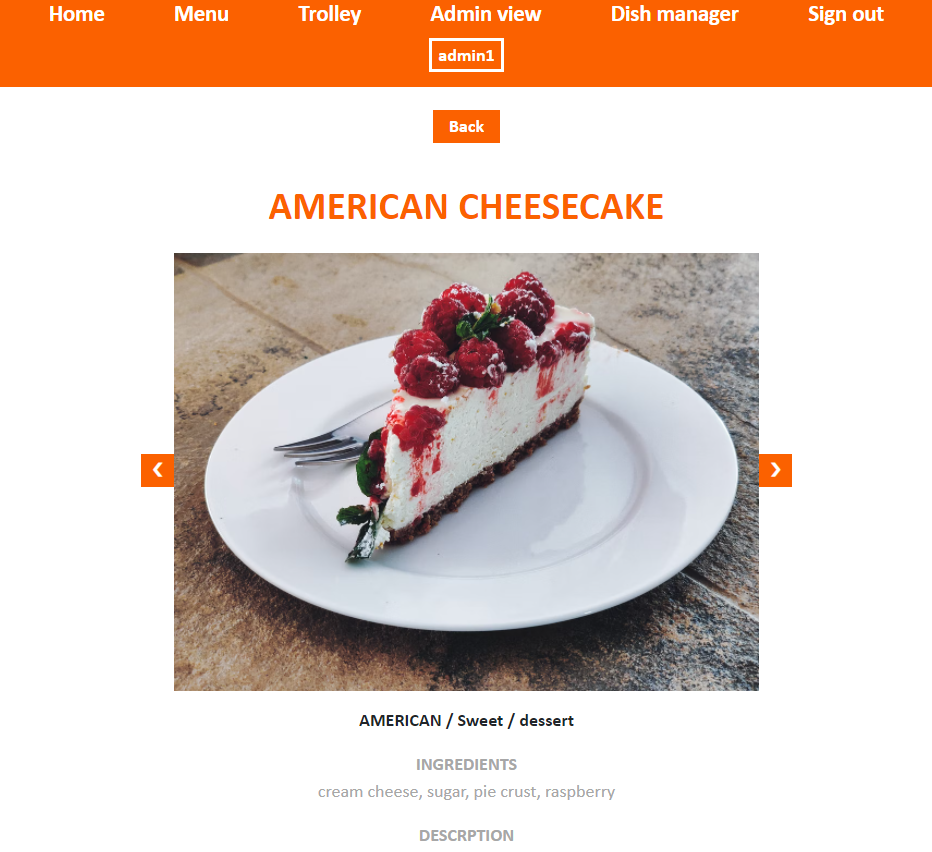
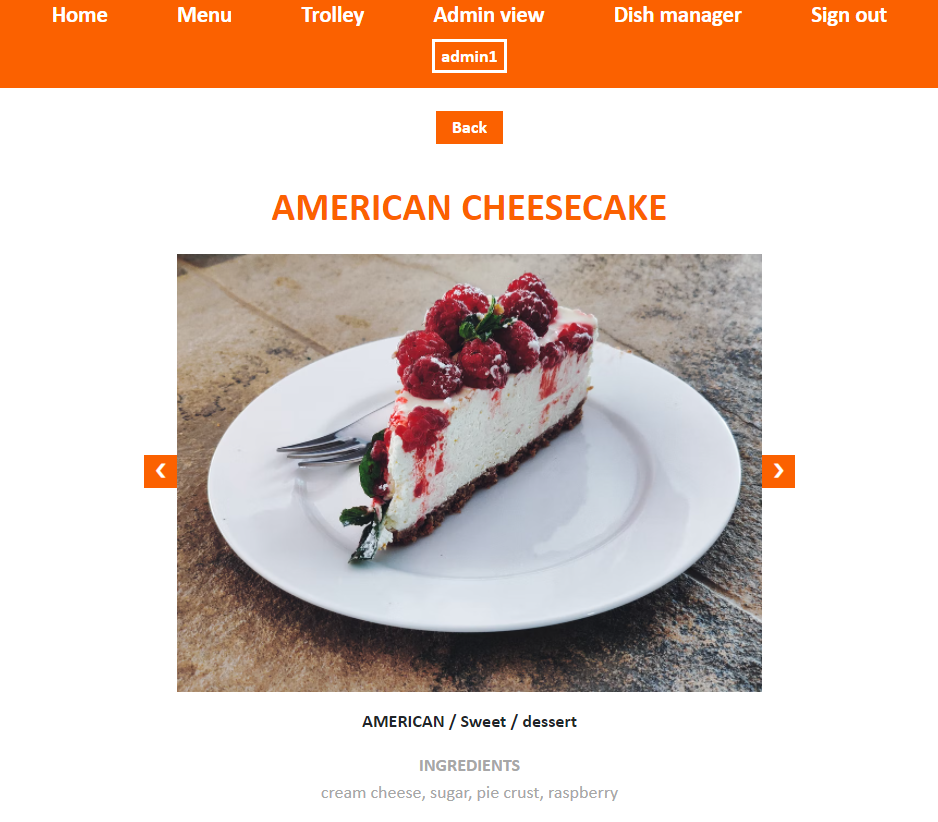
Small changes in README

diff --git a/README.md b/README.md
@@ -15,14 +15,14 @@ Restaurant is a website created to order dishes.
 <br>
 
 <img src="README_files/home_page.png" width=900px>
-<br><br>
+<br>
 
 ### Menu 
 As unlogged user you can browse the menu, use custom filters, change currency in which the prices are displayed and change number of dishes on the website.
 <br>
 
 <img src="README_files/menu.png" width=900px>
-<br><br>
+<br>
 
 ### Sign in/ Sign up
 To access other options you need to sign in. Thanks to AuthGuards you can't access other components without signing in.
@@ -36,31 +36,26 @@ There are 3 different types of accounts:
 You can create new customer account or sign in using 
 this data:
 
-
-| **login**           | **password**        | **user** |
+| **login**           | **password**        | **user**      |
 | :-----------------: | :-----------------: | :-----------: |
 |   admin1@gmail.com  | admin1@gmail.com    | admin         |
 | manager1@gmail.com  | manager1@gmail.com  | manager       |
 | customer1@gmail.com | customer1@gmail.com | customer      |
-<br><br>
 
-<div>
-    <img src="README_files/sign_in.png" width=445px height=210px>
-    <img src="README_files/sign_up.png" width=445px height=210px>
-</div>
-<br><br>
+<br>
+<img src="README_files/sign_in.png" width=900px >
+<img src="README_files/sign_up.png" width=900px>
+<br>
 
 ### Dish details
 As logged user you can click on the dish image to see more details. In dish details view you can see dish description, rate and reviews.
 If you add dish to trolley you can add (only one) dish rate or review. Manager is not allowed to add rates or reviews.
 <br>
 
-<div>
-    <img src="README_files/dish_details1.png" width=295px height=250px>
-    <img src="README_files/dish_details2.png" width=295px height=250px>
-    <img src="README_files/dish_details3.png" width=295px height=250px>
-</div>
-<br><br>
+<img src="README_files/dish_details1.png" width=900px>
+<img src="README_files/dish_details2.png" width=900px>
+<img src="README_files/dish_details3.png" width=900px>
+<br>
 
 ### Trolley
 After signing in you can add dishes to trolley.
@@ -68,23 +63,17 @@ In trolley you can see your whole order or change number of added dishes.
 <br>
 
 <img src="README_files/trolley.png" width=900px>
-<br><br>
+<br>
 
 ### Admin view
 Only admin has access to admin view. He can add/delete roles (admin, manager, customer) or ban/unban other users.
 <br>
 
 <img src="README_files/admin_view.png" width=900px>
-<br><br>
+<br>
 
 ### Dish manager
 Admin and manager have access to dish manager. There they can change menu - update, remove or add dishes.
 
-<div>
-<img src="README_files/dish_manager.png" width=445px height=400px>
-<img src="README_files/add_dish.png" width=445px height=400px>
-</div>
-
-
-
-
+<img src="README_files/dish_manager.png" width=900px>
+<img src="README_files/add_dish.png" width=900px>
